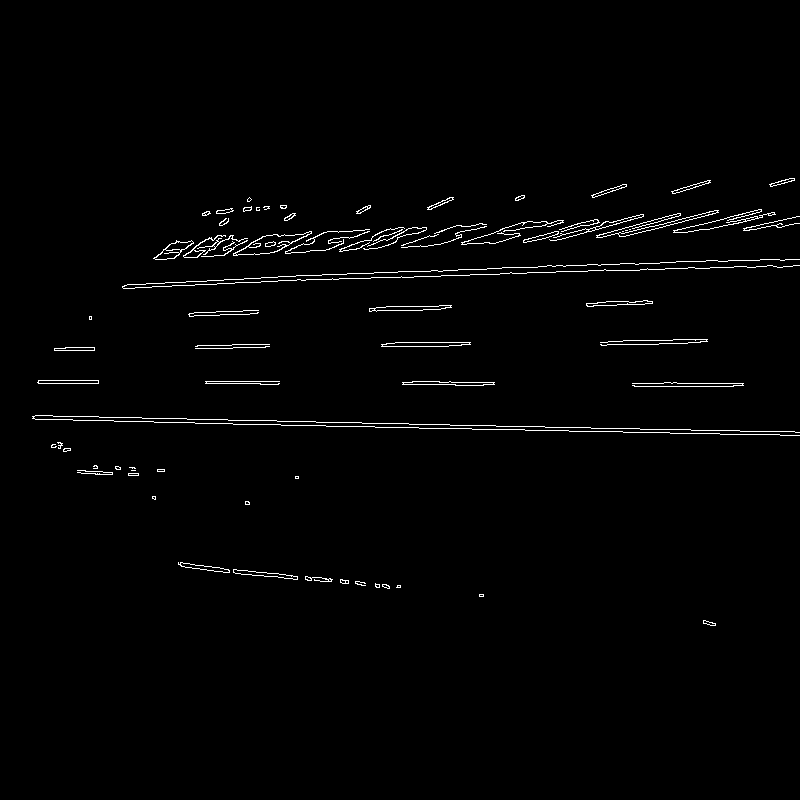
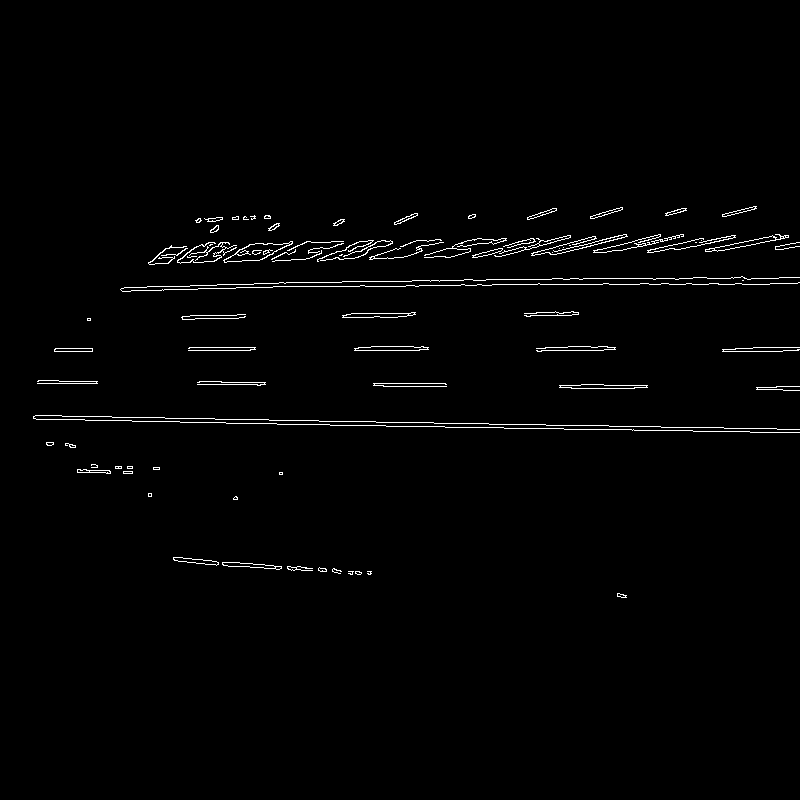
line class created

diff --git a/ipm.py b/ipm.py
@@ -6,6 +6,7 @@ import threading
 import logging
 import time
 
+from myLine import myLine
 from time import sleep
 from PIL import Image
 from pynput import keyboard
@@ -55,7 +56,7 @@ def filter_out_dark_pixels():
     im.save('threshold_filter_gray.png')
 
 def get_lines():
-    slope = {""}
+    det_lines = []
     threshold_filter_gray = cv2.imread('threshold_filter_gray.png')
     kernel_size = 5
     blur_gray = cv2.GaussianBlur(threshold_filter_gray,(kernel_size, kernel_size),0)
@@ -66,7 +67,7 @@ def get_lines():
     
     #find lines
     lines = cv2.HoughLines(canny_out, 1, np.pi / 180, 250)
-    print("number of lines: " + str(len(lines)))
+    lineCount = len(lines)
 
     for line in lines:
         rho,theta = line[0]
@@ -82,19 +83,24 @@ def get_lines():
         x2 = int(x0 - 1000 * (-b))
         # y2 stores the rounded off value of (r * sin(theta)- 1000 * cos(theta))
         y2 = int(y0 - 1000 * (a))
-        cv2.line(threshold_filter_gray, (x1, y1), (x2, y2), (0, 0, 255), 1)
-        print("x1: " + str(x1) + "\ty1:" + str(y1)+ "\tx2:" + str(x2)+ "\ty2:" + str(x2))
-        slope.add((y2 - y1)/(x2-x1))
 
+        ll = myLine(x1, y1, x2, y2)
+        det_lines.append(ll)
+
+        cv2.line(threshold_filter_gray, (x1, y1), (x2, y2), (0, 0, 255), 1)
+        #print("x1: " + str(x1) + "\ty1:" + str(y1)+ "\tx2:" + str(x2)+ "\ty2:" + str(x2))
+        #slope.add((y2 - y1)/(x2-x1))        
     
     cv2.namedWindow('image', cv2.WINDOW_NORMAL)
-    #aaa = cv2.resize(threshold_filter_gray, (800, 800))
     cv2.imshow('image', threshold_filter_gray)
-    cv2.imwrite('lines.png', threshold_filter_gray)    
-    
-    #print(slope)
+    cv2.imwrite('lines.png', threshold_filter_gray)
+
+    for i in range(lineCount):
+        print(str(det_lines[i].x1) + "\t" + str(det_lines[i].y1)+ "\t" + str(det_lines[i].x2)+ "\t" + str(det_lines[i].y2))
+
+
     k = cv2.waitKey(0)
-    return slope
+    #return slope
 
 if __name__ == '__main__':
     a_file = open("camera.json", "r")

diff --git a/myLine.py b/myLine.py
@@ -1,0 +1,7 @@
+class myLine:
+  def __init__(self, x1, y1, x2, y2):
+    self.x1 = x1
+    self.y1 = y1
+    self.x2 = x2
+    self.y2 = y2
+
